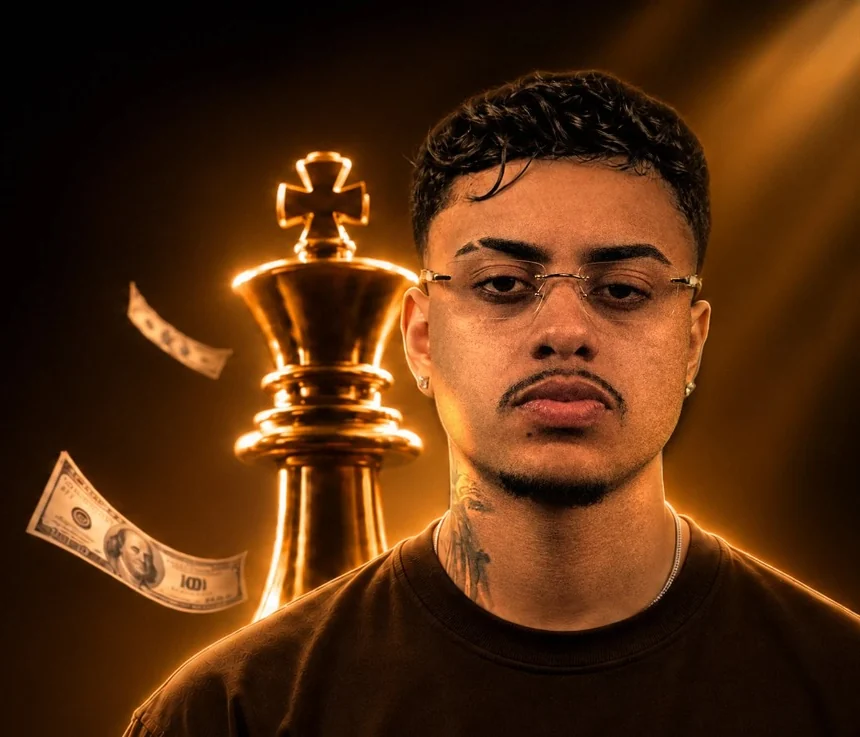
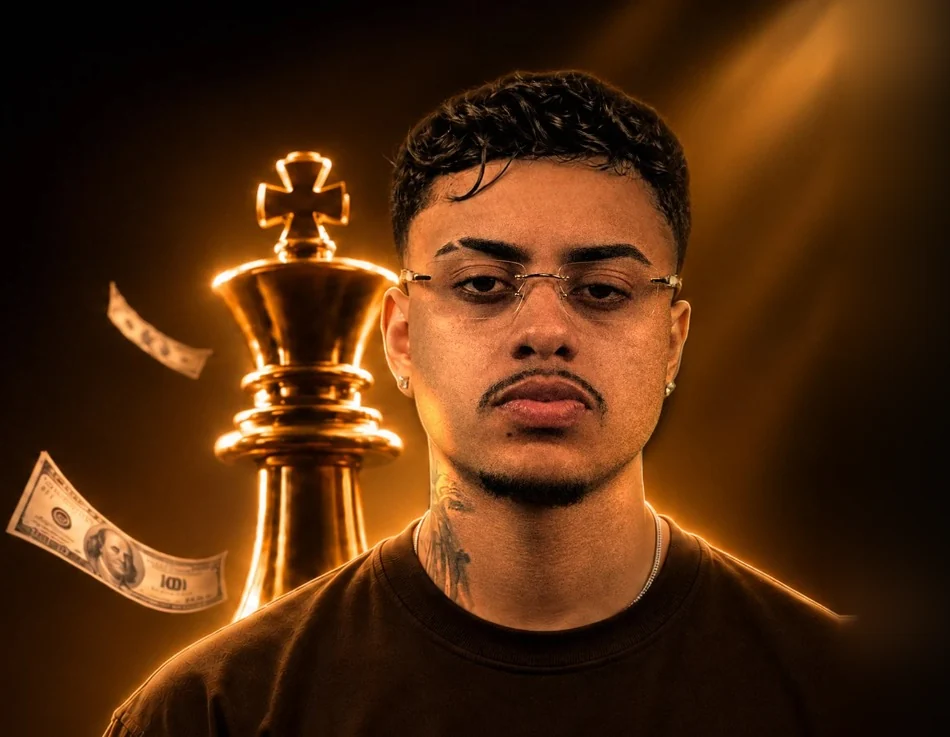
Hero: desktop volta à foto original; mobile com o corpo centralizado
Claude-Session: https://claude.ai/code/session_01BLTcZpwwpWmSLn86UuK6mC

diff --git a/assets/site.css b/assets/site.css
@@ -101,14 +101,14 @@ section{position:relative}
 }
 /* A foto fica ancorada à direita, sempre inteira (sem cortes laterais) */
 /* Foto ancorada no canto inferior direito, sempre inteira e ocupando ~metade da tela */
-.hero__bg{position:absolute;bottom:0;right:0;height:var(--H);width:calc(var(--H) * 1.7896);pointer-events:none;
-  background:url("hero-desktop.webp?v=1795059271") center / cover no-repeat;
+.hero__bg{position:absolute;bottom:0;right:0;height:var(--H);width:calc(var(--H) * 2.171);pointer-events:none;
+  background:url("hero-desktop.webp?v=1795059457") center / cover no-repeat;
   -webkit-mask-image:linear-gradient(180deg,transparent 0%,#000 10%);mask-image:linear-gradient(180deg,transparent 0%,#000 10%)}
 .hero__bg::after{content:"";position:absolute;inset:0;
   background:linear-gradient(90deg,var(--bg) 0%,rgba(7,6,5,.6) 10%,rgba(7,6,5,0) 26%),linear-gradient(0deg,rgba(7,6,5,.5) 0%,rgba(7,6,5,0) 22%)}
 .hero__inner{position:relative;width:min(1680px,100% - 48px);margin-inline:auto;padding-left:clamp(0px,4.2vw,96px)}
 /* O texto termina antes de onde começam os elementos da foto (~45% da imagem) */
-.hero__content{max-width:min(780px,calc(100vw - 1.08 * var(--H) - max(24px,(100vw - 1680px) / 2) - clamp(0px,4.2vw,96px) - 48px))}
+.hero__content{max-width:min(780px,calc(100vw - 1.15 * var(--H) - max(24px,(100vw - 1680px) / 2) - clamp(0px,4.2vw,96px) - 48px))}
 .hero h1{font-size:clamp(1.85rem,2.75vw,3.6rem)}
 .hero__sub{margin-top:12px;font-size:clamp(1.05rem,1.4vw,1.75rem);line-height:1.35;letter-spacing:-.02em;color:#b3aa9c;font-weight:400}
 .hero .btn{--h:58px;margin-top:36px;white-space:nowrap;font-size:clamp(15px,1.1vw,17px);padding:0 clamp(30px,2.6vw,42px)}
@@ -393,8 +393,8 @@ section{position:relative}
 /* Abaixo de 1080px: hero vertical — foto (recorte vertical) em cima, texto embaixo */
 @media (max-width:1079px){
   .hero{display:block;min-height:0;padding:0 0 110px}
-  .hero__bg{position:relative;bottom:auto;right:auto;height:min(85.7vw,560px);width:min(100%,calc(min(85.7vw,560px) * 1.1669));margin-inline:auto;
-    background:url("hero-mobile.webp?v=1795059271") center / cover no-repeat;
+  .hero__bg{position:relative;bottom:auto;right:auto;height:min(77.6vw,520px);width:min(100%,calc(min(77.6vw,520px) * 1.289));margin-inline:auto;
+    background:url("hero-mobile.webp?v=1795059457") center / cover no-repeat;
     -webkit-mask-image:linear-gradient(90deg,transparent 0%,#000 16%,#000 84%,transparent 100%);
             mask-image:linear-gradient(90deg,transparent 0%,#000 16%,#000 84%,transparent 100%)}
   .hero__bg::after{background:linear-gradient(0deg,var(--bg) 0%,rgba(7,6,5,0) 26%)}

diff --git a/educacional.html b/educacional.html
@@ -10,12 +10,12 @@
 <meta property="og:image" content="assets/hero-desktop.webp">
 <meta name="theme-color" content="#070605">
 
-<link rel="preload" as="image" href="assets/hero-desktop.webp?v=1795059271" media="(min-width: 1080px)">
-<link rel="preload" as="image" href="assets/hero-mobile.webp?v=1795059271" media="(max-width: 1079px)">
+<link rel="preload" as="image" href="assets/hero-desktop.webp?v=1795059457" media="(min-width: 1080px)">
+<link rel="preload" as="image" href="assets/hero-mobile.webp?v=1795059457" media="(max-width: 1079px)">
 <link rel="preload" as="font" type="font/woff2" href="assets/fonts/Syne-Bold.woff2" crossorigin>
 <link rel="preload" as="font" type="font/woff" href="assets/fonts/InterTight-Variable.woff" crossorigin>
 
-<link rel="stylesheet" href="assets/site.css?v=1795059271">
+<link rel="stylesheet" href="assets/site.css?v=1795059457">
 </head>
 <body data-ribbon-words="Autoridade|Eventos|Experiências|Estratégia|Posicionamento|Conhecimento|Expansão|Educação">
 

diff --git a/index.html b/index.html
@@ -10,12 +10,12 @@
 <meta property="og:image" content="assets/hero-desktop.webp">
 <meta name="theme-color" content="#070605">
 
-<link rel="preload" as="image" href="assets/hero-desktop.webp?v=1795059271" media="(min-width: 1080px)">
-<link rel="preload" as="image" href="assets/hero-mobile.webp?v=1795059271" media="(max-width: 1079px)">
+<link rel="preload" as="image" href="assets/hero-desktop.webp?v=1795059457" media="(min-width: 1080px)">
+<link rel="preload" as="image" href="assets/hero-mobile.webp?v=1795059457" media="(max-width: 1079px)">
 <link rel="preload" as="font" type="font/woff2" href="assets/fonts/Syne-Bold.woff2" crossorigin>
 <link rel="preload" as="font" type="font/woff" href="assets/fonts/InterTight-Variable.woff" crossorigin>
 
-<link rel="stylesheet" href="assets/site.css?v=1795059271">
+<link rel="stylesheet" href="assets/site.css?v=1795059457">
 </head>
 <body data-ribbon-words="Autoridade|Eventos|Educação|Identidade visual|Instagram|Sites|Vídeos|Posicionamento">
 

diff --git a/digital.html b/digital.html
@@ -14,7 +14,7 @@
 <link rel="preload" as="font" type="font/woff2" href="assets/fonts/Syne-Bold.woff2" crossorigin>
 <link rel="preload" as="font" type="font/woff" href="assets/fonts/InterTight-Variable.woff" crossorigin>
 
-<link rel="stylesheet" href="assets/site.css?v=1795059271">
+<link rel="stylesheet" href="assets/site.css?v=1795059457">
 </head>
 <body data-ribbon-words="Identidade visual|Design|Instagram|Sites|Vídeos|Captação|Posicionamento|Presença digital">
 
